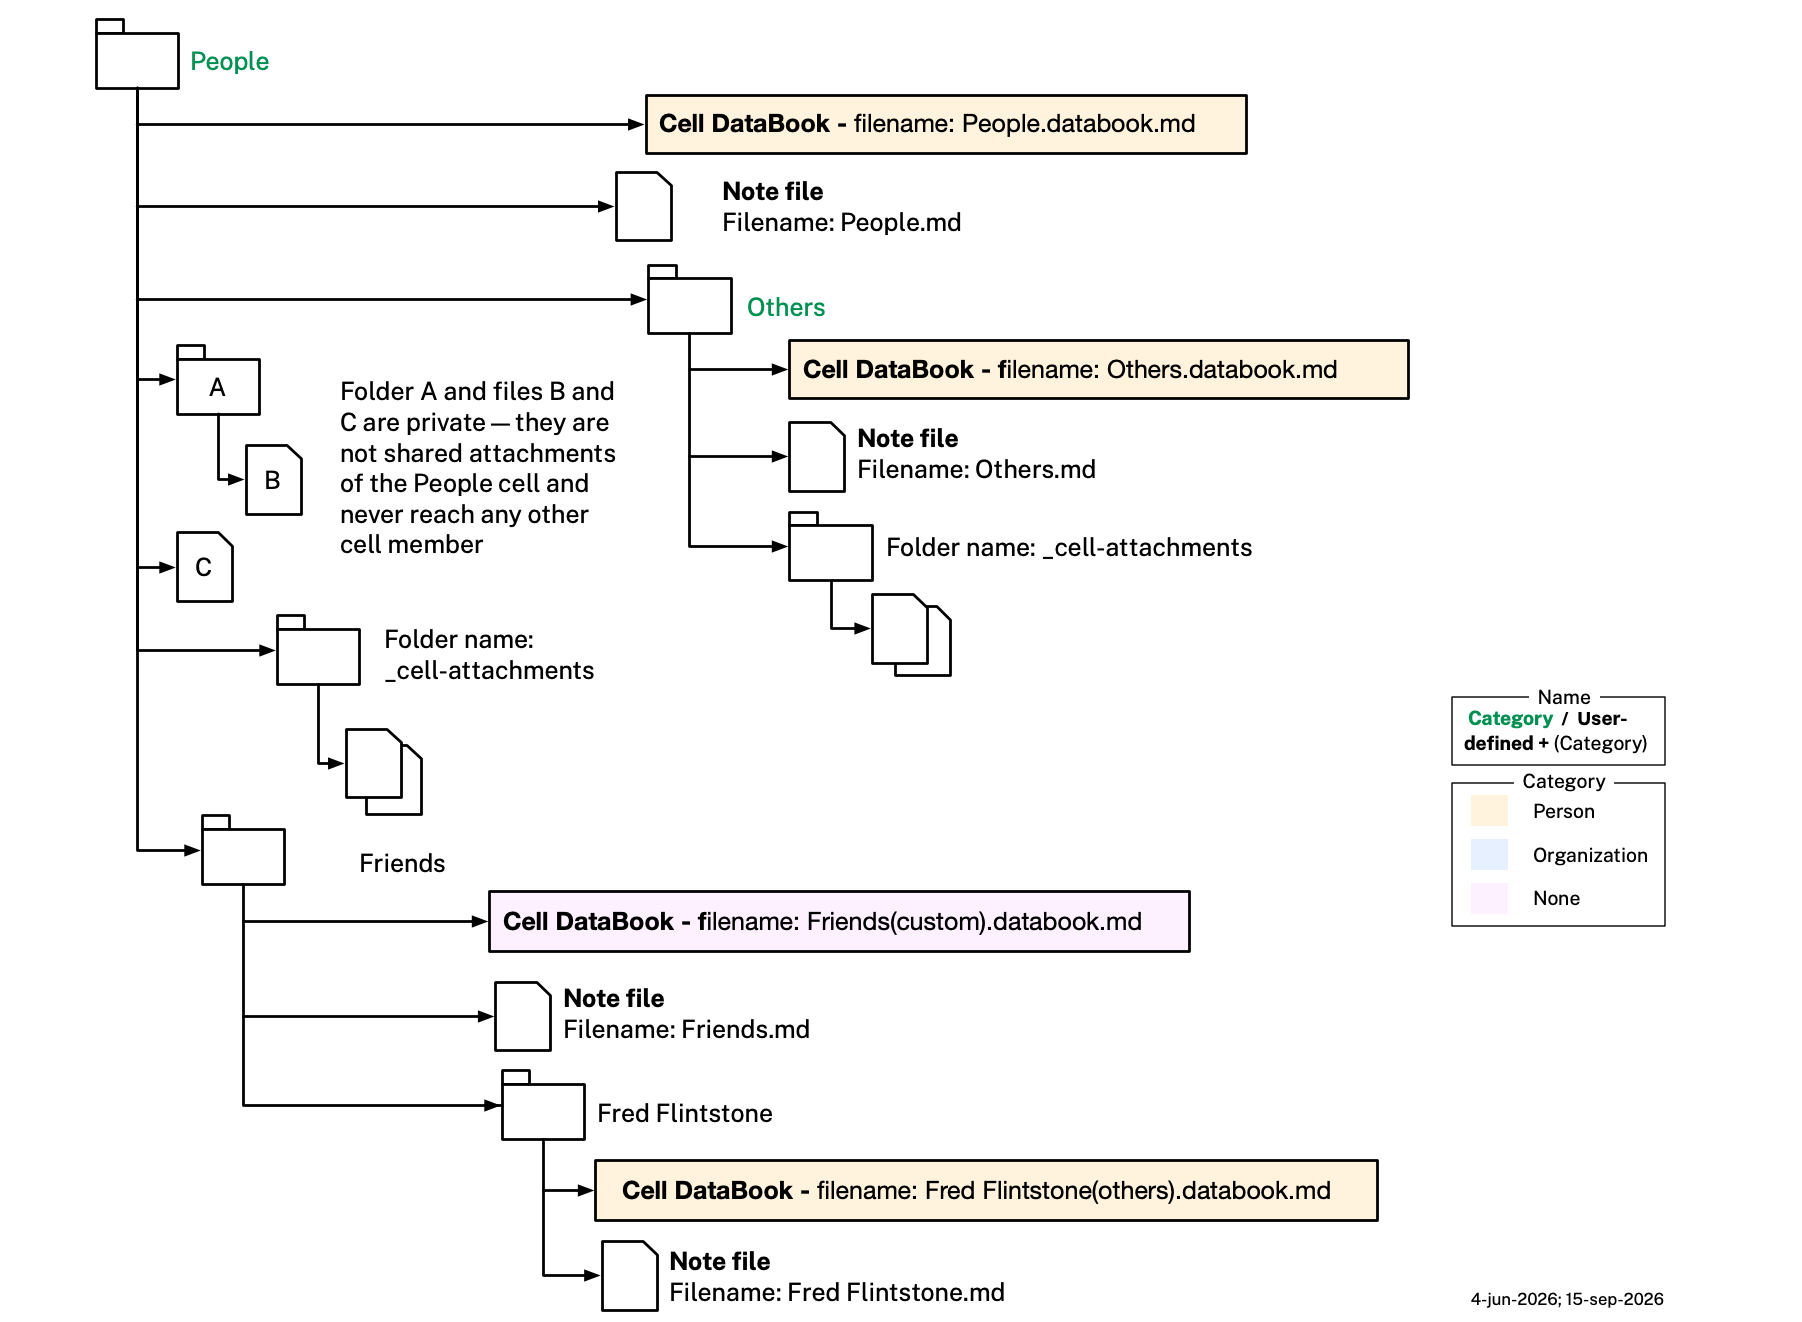
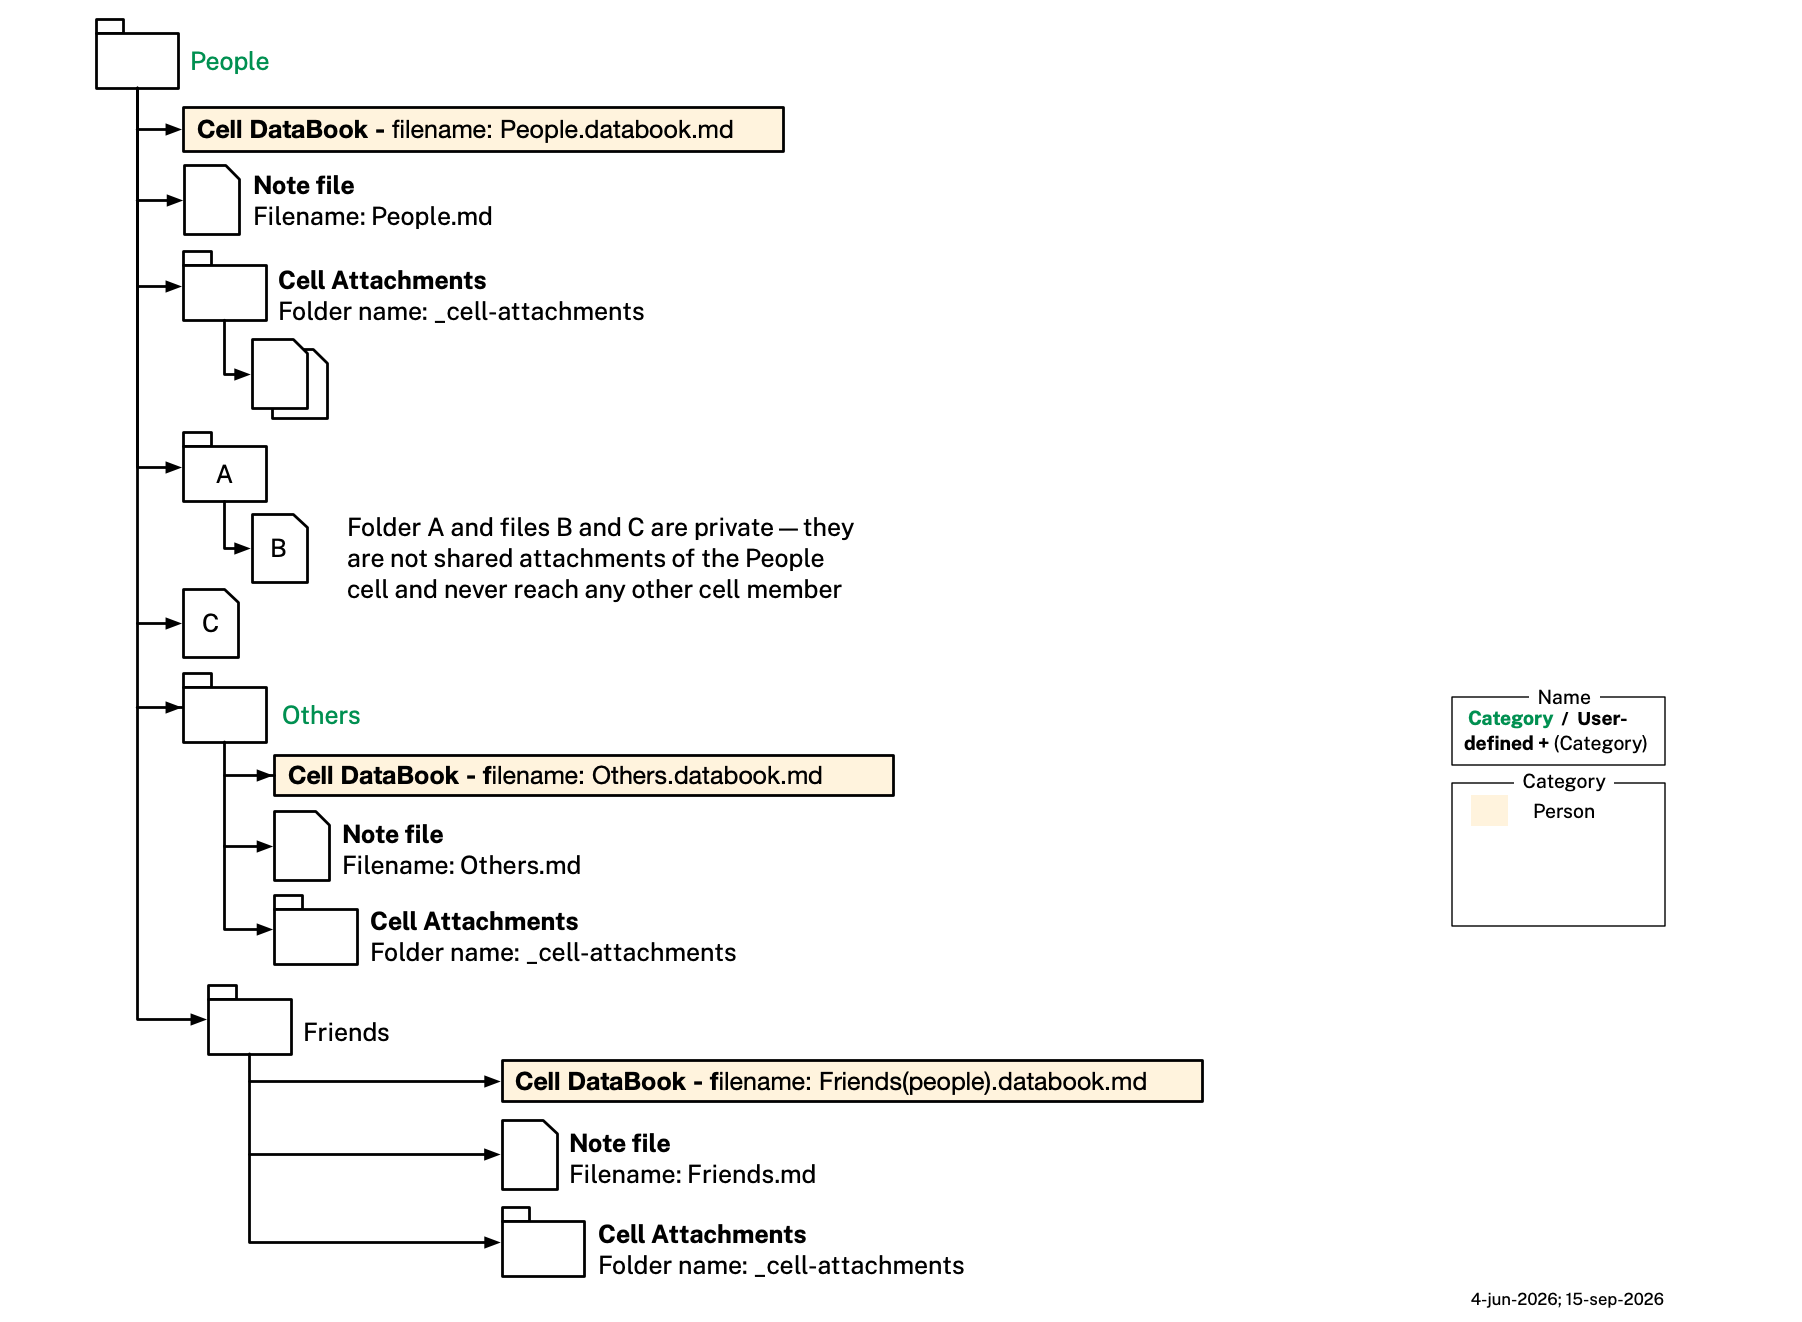
Show the mandatory attachments folder in folder-mapping.png
Every cell in the diagram now carries its _cell-attachments folder, as the
mandatory rule requires: populated in one cell and empty in the other two,
since an empty one is what a cell with no attachments looks like.

The Friends cell changes from a no-category Custom cell to Friends(people),
covering the user-defined-name-plus-category case the Name legend advertises
and nothing previously drew. That leaves no purple box, so the Category legend
drops Organization and None and lists Person alone.

Check 20's worked examples named the deleted Fred Flintstone box and the old
purple Friends box, so both are replaced with the three boxes now drawn. It
also picks up Check 12's legend rule, which this diagram has been following in
practice: the Key lists exactly the swatches the drawing uses.

diff --git a/integrity.md b/integrity.md
@@ -475,7 +475,7 @@ print('OK — title: matches its own folder name for every cell-databook.' if er
 
 If a mismatch is found, the folder name is authoritative — update `title:` to match it exactly, even when the existing `title:` reads more naturally (e.g. an honorific like `Dr. Jane Starostina` vs. folder `Jane Starostina`, or an expansion like `AT&T` vs. folder `ATT`): `title:` is not an independent display-name override, so it cannot legitimately diverge from the folder's own name — the mismatch is drift, not a deliberate choice, since the folder name is also what Check 10a's diagram-box match keys off. If the *folder's* name is what's actually wrong (e.g. it should have been named `AT&T` all along), rename the folder itself instead, then update the cell-databook's filename and `title:` together to match the new folder name.
 
-**Check 20 — `images/folder-mapping.png` folder colors match real data**: This diagram has no dedicated check of its own until now (unlike `representative-cells.png`'s Check 15). Every cell shown in this diagram (and in `representative-cells.png`, and in all 12 example diagrams — Check 10i) carries exactly two independent, mechanically-checkable colors: a **fill** color, applied to the cell's own Cell DataBook box — since `c:category` is a fact asserted in the DataBook's own YAML frontmatter, not on some separate notion of "the folder," the DataBook box is what carries the fill; the folder icon drawn alongside it is always plain white and never carries fill — (tan if the cell's `v4.category` resolves to `cat:Person`, light blue if `cat:Organization`, purple/Custom if the cell has no category at all) and a folder-**name-text** color (green/"Predefined" if the cell's `title:` equals the category concept's own `skos:prefLabel` verbatim, plain black/"User-defined" otherwise — and always black for a no-category/Custom cell, since there's no label to match). A cell with no category is only legal if its cell-databook's filename carries the literal `(custom)` disambiguator (see the [Filename Convention](cell-databook.md#filename-convention)) — the two facts (no `v4.category` and a `(custom)` filename) must always agree; either alone without the other is an error. This is a visual check (no automated pixel/OCR comparison), but the script below computes the correct fill and text color for every real cell, for direct cross-reference against whichever diagram box is being checked — e.g. this diagram's "Fred Flintstone" box (category `cat:Others`, folder name "Fred Flintstone") should be tan fill + black text; "People" (category `cat:People`, folder name "People") should be tan fill + green text; the "Friends" box (no category, filename `Friends(custom).databook.md`) should be purple fill + black text. Run:
+**Check 20 — `images/folder-mapping.png` folder colors match real data**: This diagram has no dedicated check of its own until now (unlike `representative-cells.png`'s Check 15). Every cell shown in this diagram (and in `representative-cells.png`, and in all 12 example diagrams — Check 10i) carries exactly two independent, mechanically-checkable colors: a **fill** color, applied to the cell's own Cell DataBook box — since `c:category` is a fact asserted in the DataBook's own YAML frontmatter, not on some separate notion of "the folder," the DataBook box is what carries the fill; the folder icon drawn alongside it is always plain white and never carries fill — (tan if the cell's `v4.category` resolves to `cat:Person`, light blue if `cat:Organization`, purple/Custom if the cell has no category at all) and a folder-**name-text** color (green/"Predefined" if the cell's `title:` equals the category concept's own `skos:prefLabel` verbatim, plain black/"User-defined" otherwise — and always black for a no-category/Custom cell, since there's no label to match). A cell with no category is only legal if its cell-databook's filename carries the literal `(custom)` disambiguator (see the [Filename Convention](cell-databook.md#filename-convention)) — the two facts (no `v4.category` and a `(custom)` filename) must always agree; either alone without the other is an error. This is a visual check (no automated pixel/OCR comparison), but the script below computes the correct fill and text color for every real cell, for direct cross-reference against whichever diagram box is being checked — e.g. this diagram's "People" box (category `cat:People`, folder name "People") and its "Others" box (category `cat:Others`, folder name "Others") should each be tan fill + green text, while "Friends" (filename `Friends(people).databook.md`, so category `cat:People`, folder name "Friends") should be tan fill + black text — the user-defined-name case. The diagram currently carries no no-category cell, so the purple/Custom fill has no instance in it; its Category legend accordingly lists **Person** alone. That is the rule for this diagram's legend generally, matching Check 12's for `cell.png`: the Key lists exactly the swatches the drawing actually uses, so a swatch whose case is not drawn comes out rather than standing as an unexercised entry. Run:
 
 ```python
 import glob, re, yaml
